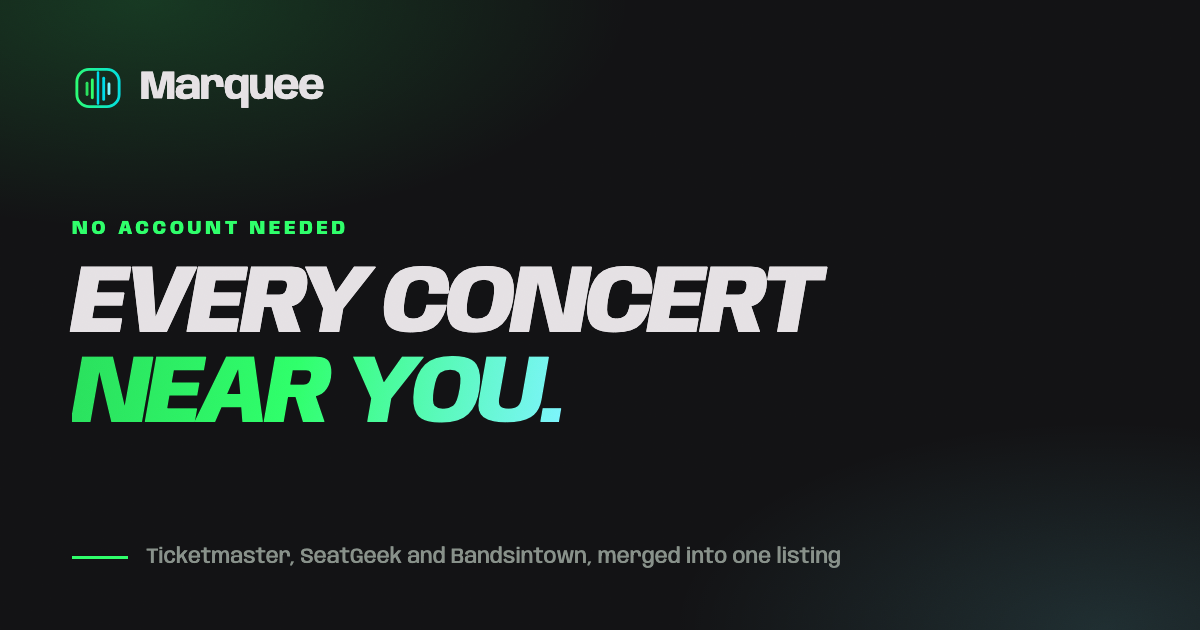
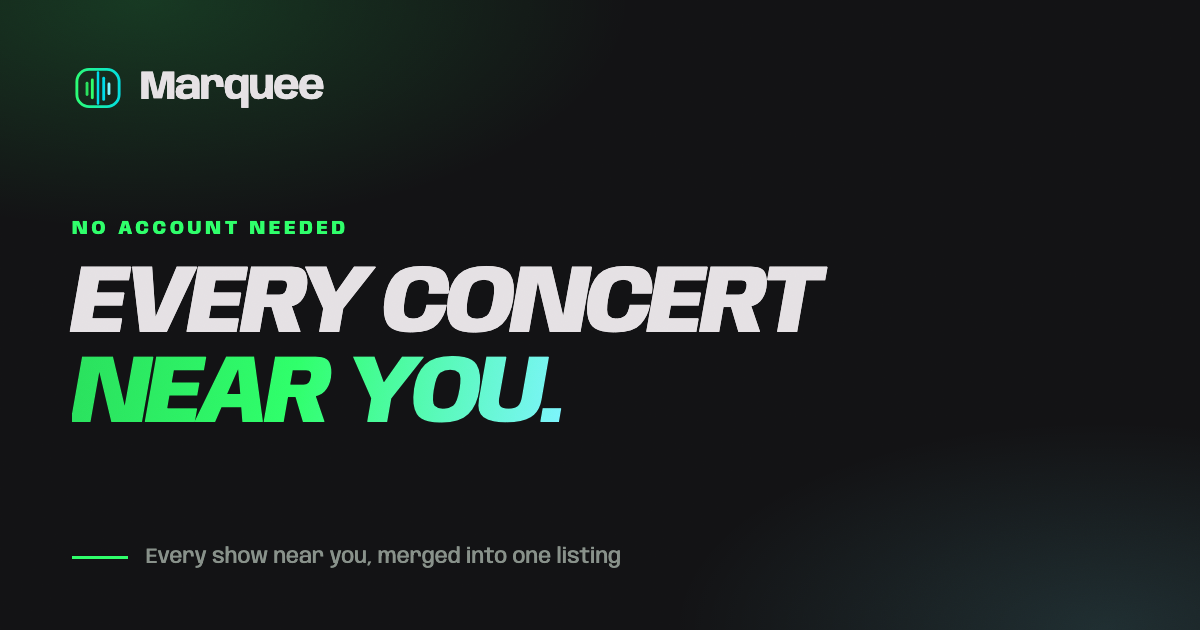
Stop telling readers where the listings come from
Every user-visible mention of a listings provider is gone: the landing
page's meta description, its "how does Marquee find concerts" answer, a
feature bullet and its lede; the city pages' lede; the shared footer on
every rendered page; and the Open Graph card, whose PNG is regenerated and
its ?v bumped to 4 so shares pick up the new one rather than the cached
old.

The city FAQ lost a whole question rather than getting a vague answer.
"Where do these listings come from?" exists only to name them, and an
evasive reply to a question you asked yourself reads worse than not asking
— so it's now "Why is each show listed only once?", which a reader
actually wonders and which the dedup work has a real answer for.

The ticket button keeps naming Ticketmaster, because that label is about a
seller rather than a source: being told which site is about to take your
card is the whole point of it. The Bandsintown branch is gone, so those
fall through to "Official box office" like SeatGeek and DICE already did —
for those the link is a hand-off to whoever the venue sells through, and
naming the intermediary we happened to read tells the reader about our
plumbing instead of their ticket.

Found while verifying, and fixed here because it made the change look
broken: the page cache had no idea a deploy had happened. /privacy kept
serving the old footer for half an hour with no way to force it — the
cache key ignores the query string by design, so a cache-buster couldn't
[…]

Changed region(s): [[0.1233, 0.8444, 0.7092, 0.9048]]

diff --git a/worker/src/landing.ts b/worker/src/landing.ts
@@ -48,7 +48,7 @@ const NAME = 'Marquee';
 const TITLE = 'Concerts Near You — Every Upcoming Show in One Place · Marquee';
 // Kept inside DESC_MAX — a snippet that overflows is copy no search result shows.
 export const DESCRIPTION =
-  'Find concerts near you: upcoming shows, tour dates and tickets from Ticketmaster, SeatGeek and Bandsintown in one listing. No account needed to browse.';
+  'Find concerts near you: upcoming shows, tour dates and tickets in one listing, with the duplicates merged away. No account needed to browse.';
 
 /** How far ahead the page counts, matching the app's own horizon. */
 const HORIZON_DAYS = 365;
@@ -249,7 +249,7 @@ const townHref = (c: LandingData['cities'][number]) => `/concerts/${c.slug}`;
 const FAQ: Faq[] = [
   {
     q: 'How does Marquee find concerts near me?',
-    a: 'It reads live listings from Ticketmaster, SeatGeek and Bandsintown, then merges them: the same show sold in three places becomes one entry, and a venue that all three name slightly differently becomes one room. You give it a point and a radius, and it answers with what is actually on.',
+    a: 'It reads live ticket listings continuously and merges them: the same show on sale in three places becomes one entry, and a venue spelled differently in each of them becomes one room. You give it a point and a radius, and it answers with what is actually on.',
   },
   {
     q: 'Do I need an account?',
@@ -307,7 +307,7 @@ export function landingHtml(origin: string, d: LandingData): string {
         'Follow artists and venues',
         'Save shows for later',
         'Map of nearby shows',
-        'Listings merged from Ticketmaster, SeatGeek and Bandsintown',
+        'Duplicate listings merged into one entry per show',
       ],
     },
     faqJsonLd(FAQ),
@@ -380,7 +380,7 @@ export function landingHtml(origin: string, d: LandingData): string {
     <div class="rise">
       <p class="eyebrow">No account needed to browse</p>
       <h1>Every concert<br>near you, <span class="lit">in one place.</span></h1>
-      <p class="lede">Marquee pulls the listings from Ticketmaster, SeatGeek and Bandsintown, throws away the duplicates, and shows you what is actually on — tonight, this weekend, or any time in the next year.</p>
+      <p class="lede">Marquee pulls the listings together, throws away the duplicates, and shows you what is actually on — tonight, this weekend, or any time in the next year.</p>
       <div class="buttons">
         <a class="btn" href="/explore">Open the app</a>
         <a class="btn ghost" href="/map">See the map</a>

diff --git a/worker/src/cities.ts b/worker/src/cities.ts
@@ -483,8 +483,8 @@ function cityFaq(d: CityData): Faq[] {
         : `The venue list above is generated from what is on sale in ${where} right now.`,
     },
     {
-      q: `Where do these ${where} listings come from?`,
-      a: 'Ticketmaster, SeatGeek and Bandsintown, read live and merged: the same show sold in three places becomes one entry, and a room all three name slightly differently becomes one venue. Tickets are bought from whoever is selling them — Marquee links straight out and takes nothing in between.',
+      q: `Why is each ${where} show listed only once?`,
+      a: 'Because a show on sale in three places is still one night out. Marquee merges them into a single entry, and a room spelled differently by each seller becomes one venue. Tickets are bought from whoever is selling them — Marquee links straight out and takes nothing in between.',
     },
     {
       q: `Can I get told when an artist announces a ${where} date?`,
@@ -620,7 +620,7 @@ export function cityHtml(origin: string, d: CityData): string {
         <a href="/concerts">Concerts</a><span aria-hidden="true">/</span>${esc(town.label)}
       </nav>
       <h1>Concerts in <span class="lit">${esc(town.label)}</span></h1>
-      <p class="lede">Every upcoming show in ${esc(town.label)}, by date — ${shows} of them across ${num(town.venues)} ${plural(town.venues, 'venue', 'venues')}, pulled from Ticketmaster, SeatGeek and Bandsintown and merged so a show sold in three places is listed once.</p>
+      <p class="lede">Every upcoming show in ${esc(town.label)}, by date — ${shows} of them across ${num(town.venues)} ${plural(town.venues, 'venue', 'venues')}, merged so a show on sale in three places is listed once.</p>
       <div class="buttons">
         <a class="btn" href="${esc(feedHref)}">Open ${esc(town.city)} in the app</a>
         <a class="btn ghost" href="/map">See the map</a>

diff --git a/worker/src/index.ts b/worker/src/index.ts
@@ -150,13 +150,24 @@ const PAGE_CACHE = 'public, max-age=300, s-maxage=1800, stale-while-revalidate=8
 /**
  * Where a rendered page is keyed in the edge cache.
  *
- * Always the canonical origin plus the path, and deliberately **not** the query
- * string: none of these three pages reads one, so keying on the full URL would
- * mint a separate entry for every `?utm_source=…` a share adds and miss on all
- * of them.
+ * The canonical origin plus the path, and deliberately **not** the query string:
+ * none of these three pages reads one, so keying on the full URL would mint a
+ * separate entry for every `?utm_source=…` a share adds and miss on all of them.
+ *
+ * Plus the deployment id, because nothing else tells the cache a deploy just
+ * made its contents wrong. Without it, changing the copy on a page and shipping
+ * it means the *old* copy keeps going out until `s-maxage` expires — half an
+ * hour of serving text you already fixed, with no way to force it: the key
+ * ignores the query string, so a cache-buster can't reach past it either. The
+ * id changes on every deploy, so each one starts a clean namespace and the
+ * entries it orphans expire on their own.
  */
-const pageCacheKey = (c: Context<AppEnv>) =>
-  new Request(new URL(new URL(c.req.url).pathname, siteOrigin(c)).toString(), { method: 'GET' });
+const pageCacheKey = (c: Context<AppEnv>) => {
+  const url = new URL(new URL(c.req.url).pathname, siteOrigin(c));
+  // A query param on the key, not the path: it must not collide with a real URL.
+  if (c.env.CF_VERSION?.id) url.searchParams.set('__v', c.env.CF_VERSION.id);
+  return new Request(url.toString(), { method: 'GET' });
+};
 
 /**
  * Serve a rendered page through the edge cache.

diff --git a/src/lib/tickets.ts b/src/lib/tickets.ts
@@ -18,16 +18,21 @@ export function stubhubSearchUrl(artist: string, city?: string | null): string {
   return `https://www.stubhub.com/explore?q=${encodeURIComponent(q)}`;
 }
 
-/** The ways to buy for an event: the official link (when known) + StubHub resale. */
+/**
+ * The ways to buy for an event: the official link (when known) + StubHub resale.
+ *
+ * The label names a **seller**, not where we found the listing. Ticketmaster
+ * sells the ticket, so a button that opens Ticketmaster says so — being told
+ * which site is about to take your card is the point of the label. Everything
+ * else goes out as "Official box office", because for those the link is a
+ * hand-off to whoever the venue actually sells through and naming the
+ * intermediary we happened to read would be telling the reader about our
+ * plumbing rather than about their ticket.
+ */
 export function ticketSources(e: EventDetail): TicketSource[] {
   const sources: TicketSource[] = [];
   if (e.ticket_url) {
-    const label =
-      e.source === 'ticketmaster'
-        ? 'Ticketmaster'
-        : e.source === 'bandsintown'
-          ? 'Bandsintown'
-          : 'Official box office';
+    const label = e.source === 'ticketmaster' ? 'Ticketmaster' : 'Official box office';
     sources.push({ id: 'official', label, kind: 'official', url: e.ticket_url });
   }
   sources.push({

diff --git a/src/app/+html.tsx b/src/app/+html.tsx
@@ -61,13 +61,13 @@ export default function Root({ children }: PropsWithChildren) {
         {/* Relative here, absolutized by the Worker (crawlers need a full URL). */}
         <meta property="og:url" content="/" />
         {/* ?v must match OG_IMAGE in worker/src/page.ts — see the note there. */}
-        <meta property="og:image" content="/og-image.png?v=3" />
+        <meta property="og:image" content="/og-image.png?v=4" />
         <meta property="og:image:width" content="1200" />
         <meta property="og:image:height" content="630" />
         <meta property="og:image:alt" content={TITLE} />
 
         <meta name="twitter:card" content="summary_large_image" />
-        <meta name="twitter:image" content="/og-image.png?v=3" />
+        <meta name="twitter:image" content="/og-image.png?v=4" />
 
         <meta name="theme-color" content="#131315" />
         <meta name="color-scheme" content="dark" />

diff --git a/worker/src/page.ts b/worker/src/page.ts
@@ -25,7 +25,7 @@ const NAME = 'Marquee';
  * links people have already shared. The `?v` is what makes them fetch again, and
  * it has to be bumped whenever public/og-image.png is rebuilt.
  */
-export const OG_IMAGE = '/og-image.png?v=3';
+export const OG_IMAGE = '/og-image.png?v=4';
 
 // --- text -------------------------------------------------------------------
 
@@ -162,7 +162,7 @@ export function pageFooter(extra = ''): string {
     <a href="/privacy">Privacy &amp; contact</a>
   </nav>
   ${extra}
-  <p>Marquee is a free live-music radar built by Kyle Jeffrey. Listings come from Ticketmaster, SeatGeek and Bandsintown; artist detail from Spotify, Deezer and Wikipedia. Tickets are sold by those sites, not by us.</p>
+  <p>Marquee is a free live-music radar built by Kyle Jeffrey. Tickets are sold by the sites we link out to, never by us.</p>
 </footer>`;
 }
 

diff --git a/worker/src/env.ts b/worker/src/env.ts
@@ -46,6 +46,18 @@ export type CoreEnv = {
 export type Env = CoreEnv & {
   ASSETS: Fetcher;
   /**
+   * Which deployment is serving. Bound by `version_metadata` in wrangler.jsonc.
+   *
+   * The rendered pages are edge-cached, and nothing about a deploy tells that
+   * cache its contents just became wrong — so the version id goes in the cache
+   * key and a deploy starts a fresh namespace. Learned by shipping a copy
+   * change and watching the old copy keep going out for half an hour.
+   *
+   * Optional so a local `wrangler dev` without the binding still runs; the key
+   * just falls back to an unversioned one there.
+   */
+  CF_VERSION?: { id: string; tag?: string; timestamp?: string };
+  /**
    * Clerk's secret key — the one that makes accounts exist at all.
    *
    * Required, not optional. Unset used to mean "everybody is signed out", which

diff --git a/scripts/og-image.html b/scripts/og-image.html
@@ -69,7 +69,7 @@
 
   <div class="foot">
     <span class="rule"></span>
-    <span>Ticketmaster, SeatGeek and Bandsintown, merged into one listing</span>
+    <span>Every show near you, merged into one listing</span>
   </div>
 </body>
 </html>
